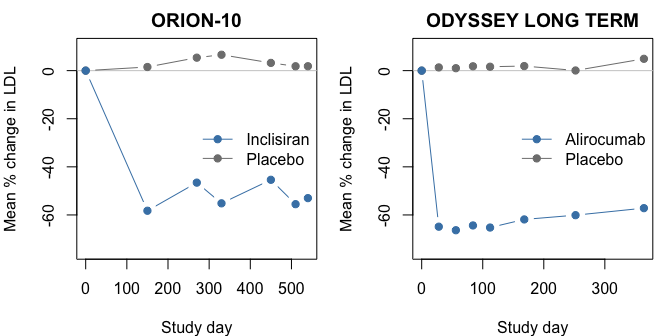
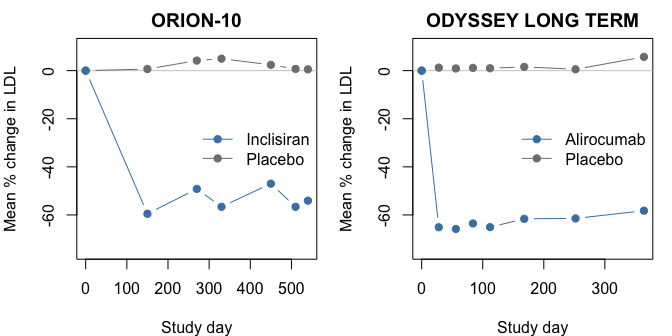
Switches from `mvrnorm` to `chol` to produce datasets

diff --git a/tests/testthat/_snaps/odyssey-lt.md b/tests/testthat/_snaps/odyssey-lt.md
@@ -64,55 +64,57 @@
         140.059883858093, 110.594925884284, 110.594925884284, 110.594925884284, 
         110.594925884284, 110.594925884284, 110.594925884284, 110.594925884284, 
         258.78737161331, 258.78737161331, 258.78737161331, 258.78737161331, 
-        258.78737161331, 258.78737161331, 258.78737161331), ldl = c(126.326414029535, 
-        141.11504230433, 131.116977481005, 138.562873958283, 140.258057203206, 
-        147.502708842565, 150.822327615059, 15.916210676355, 18.5427305504716, 
-        16.5196968537443, 23.1562148792014, 36.4115036485576, 47.1591328083523, 
-        78.0323803059654, 54.9366308952084, 42.3362541295766, 51.502059190909, 
-        59.1143909491735, 78.0439329326917, 51.4086212355644, 85.9198502963523, 
-        26.2543755684939, 23.6374368920224, 25.5269757327617, 23.1348791538951, 
-        28.7645591862499, 22.4080505925043, 18.2986229004088, 24.3043218772255, 
-        29.1688541151435, 30.850764295886, 41.3451504763419, 35.1685839590016, 
-        50.7505409311361, 51.1861976979549, 71.7769355643463, 89.4576406132714, 
-        103.266204380801, 69.0158503438615, 75.0809704960645, 61.930879410443, 
-        57.4022725621201, 103.260046264333, 93.8450668338785, 91.7671019953874, 
-        97.7717420736495, 84.1501267305172, 76.8472532724242, 74.9390522802674, 
-        11.1571867696406, 11.0886034646459, 10.2716808156984, 6.89382940781192, 
-        5.30394072201386, 7.11581010739917, 8.20721081289194, 58.8324015266059, 
-        79.8217902751719, 119.496614001654, 118.196961271825, 145.243871721668, 
-        108.110761397641, 90.2732349560014, 33.9975141560709, 37.4344843126842, 
-        44.86451483009, 37.9030475610336, 31.6686228277681, 27.9402591088604, 
-        41.6684060890597, 269.343552878687, 275.987004643019, 259.194660016412, 
-        250.458298993173, 242.883060167089, 277.159119115348, 288.639839593393
-        ), ldl_pct_change = c(-4.46588968440619, 6.71798231793106, 
-        -0.843035186695484, 4.78790986088948, 6.06988896533696, 11.5486429870477, 
-        14.0590983692684, -83.1139985816318, -80.3274422070299, -82.4737413838241, 
-        -75.4328536329867, -61.3699067726046, -49.9674137466734, 
-        -17.2130281937854, -57.6532047105018, -67.3659513200012, 
-        -60.3006751232124, -54.432862529137, -39.8414064052792, -60.3726998888882, 
-        -33.7704141569172, -66.8726865425904, -70.174694149213, -67.7905069761522, 
-        -70.8088127431957, -63.7053806082286, -71.7259123527513, 
-        -76.9111165840023, -87.0067598117593, -84.4061509122394, 
-        -83.5069913691825, -77.8966278725325, -81.1986583798576, 
-        -72.8684481989477, -72.6355434077956, -68.0589419351629, 
-        -60.1909489349783, -54.0460761618121, -69.2876372347889, 
-        -66.5886315802767, -72.4404810584031, -74.455731405298, 0.922630983229156, 
-        -8.27922906961387, -10.3101566759634, -4.44143884434186, 
-        -17.7547125489777, -24.8922766872084, -26.7572832559667, 
-        -86.3184789260642, -86.4025793316573, -87.4043322527219, 
-        -91.5464288381599, -93.4960328027675, -91.2742245915058, 
-        -89.935892441959, -57.9948234240905, -43.0088130331122, -14.6817698901374, 
-        -15.6096963556101, 3.70126528794448, -22.8110445192304, -35.5466872673799, 
-        -69.2594267917475, -66.151716262415, -59.4334780991381, -65.728041085093, 
-        -71.3652117630576, -74.7364005306225, -62.3234015883716, 
-        4.07909443168295, 6.64624124526816, 0.157383415026335, -3.21850041144304, 
-        -6.14570616296762, 7.09916692901458, 11.5355196020498), hefh = structure(c(1L, 
+        258.78737161331, 258.78737161331, 258.78737161331), ldl = c(120.135314490122, 
+        114.946713457674, 114.312856747352, 113.898285778546, 111.198923918255, 
+        121.61705646088, 100.328982855139, 25.9288409060456, 40.1475571274833, 
+        41.6291578492093, 42.3797231559846, 54.6855406968425, 51.4890852084851, 
+        96.6792374716019, 57.7380683226157, 60.5913934944725, 63.5027414973277, 
+        75.1568315580822, 122.602058734784, 76.6456637426368, 56.6963533834699, 
+        22.7908034388827, 19.0030899391644, 17.9128744350071, 16.4984187843174, 
+        22.1389693971087, 24.2856884918045, 21.9300281260514, 32.3322687963558, 
+        36.7548410101948, 35.177020138, 37.7985561472862, 29.6405105378999, 
+        26.6617702272528, 59.2587579005842, 71.856780050191, 56.783568790512, 
+        58.8220086390314, 60.7357591923837, 56.8234763414139, 111.379310842061, 
+        84.817646599451, 114.539611903431, 127.395183172763, 125.125373350258, 
+        122.744629336718, 121.22299150461, 93.7011784846822, 94.4672992648021, 
+        6.99479417696937, 5.54230783553091, 8.16173944530815, 7.46473454789841, 
+        6.45941656742465, 10.4599283104458, 12.4202316513422, 104.018339621845, 
+        102.084154161773, 74.2118154082294, 90.206947681386, 79.3386444048354, 
+        101.699993850956, 79.4789122186536, 34.54463851327, 30.3583447601132, 
+        36.5919610090731, 45.1628237398026, 39.9039595973085, 45.5682376454117, 
+        41.0266572933165, 241.664616922274, 236.846904013671, 253.960051906761, 
+        238.290569425064, 223.77060482759, 235.942935748703, 229.494064623313
+        ), ldl_pct_change = c(-9.1478969345672, -13.0717665957571, 
+        -13.5511195272358, -13.8646380338107, -15.9060253060127, 
+        -8.02733238770519, -24.1263975585247, -72.4912887106621, 
+        -57.4062117935, -55.8343356480247, -55.0380376413884, -41.9824142474479, 
+        -45.3736329871156, 2.57000075385327, -55.4937731013621, -53.2943448696331, 
+        -51.0501909074332, -42.0668703425168, -5.49467270360482, 
+        -40.9192340438873, -56.2967580780375, -71.2429614828814, 
+        -76.0222323539284, -77.3978472737396, -79.1825827586785, 
+        -72.0654343147995, -69.3567415801555, -72.3290727686049, 
+        -82.7149699372823, -80.3506355890733, -81.1941483465989, 
+        -79.7926590475826, -84.1540004832681, -85.7464534021417, 
+        -68.3199029971457, -68.0234107810607, -74.7310573569911, 
+        -73.8239424871334, -72.9723149125424, -74.7132983179549, 
+        -50.4357074197108, -62.2557670698104, 11.9468700943731, 24.5114400537176, 
+        22.2930101051936, 19.9661570944081, 18.4789633638645, -8.41986033305092, 
+        -7.67108161778001, -91.4226206017762, -93.2037346854866, 
+        -89.99165179122, -90.8463553459275, -92.0791283934564, -87.1734934113833, 
+        -84.7696677854863, -25.7329531079472, -27.1139234520552, 
+        -47.0142246559195, -35.5940150765923, -43.3537696738203, 
+        -27.3882063517939, -43.2536212159219, -68.7647166114888, 
+        -72.5499659976469, -66.9135263516887, -59.1637469995172, 
+        -63.9188151913405, -58.7971714967376, -62.9036712441555, 
+        -6.61653410067545, -8.47818325247465, -1.86536138778896, 
+        -7.92032550138216, -13.5310956510053, -8.82749251719359, 
+        -11.3194499435497), hefh = structure(c(1L, 1L, 1L, 1L, 1L, 
         1L, 1L, 1L, 1L, 1L, 1L, 1L, 1L, 1L, 1L, 1L, 1L, 1L, 1L, 1L, 
-        1L, 1L, 1L, 1L, 1L, 1L, 1L, 1L, 1L, 1L, 1L, 1L, 2L, 2L, 2L, 
-        2L, 2L, 2L, 2L, 1L, 1L, 1L, 1L, 1L, 1L, 1L, 1L, 1L, 1L, 1L, 
+        1L, 1L, 1L, 1L, 1L, 1L, 1L, 1L, 2L, 2L, 2L, 2L, 2L, 2L, 2L, 
         1L, 1L, 1L, 1L, 1L, 1L, 1L, 1L, 1L, 1L, 1L, 1L, 1L, 1L, 1L, 
         1L, 1L, 1L, 1L, 1L, 1L, 1L, 1L, 1L, 1L, 1L, 1L, 1L, 1L, 1L, 
-        1L), levels = c("No", "Yes"), class = "factor"), prior_mi_stroke = structure(c(2L, 
+        1L, 1L, 1L, 1L, 1L, 1L, 1L, 1L, 1L, 1L, 1L, 1L), levels = c("No", 
+        "Yes"), class = "factor"), prior_mi_stroke = structure(c(2L, 
         2L, 2L, 2L, 2L, 2L, 2L, 1L, 1L, 1L, 1L, 1L, 1L, 1L, 2L, 2L, 
         2L, 2L, 2L, 2L, 2L, 1L, 1L, 1L, 1L, 1L, 1L, 1L, 2L, 2L, 2L, 
         2L, 2L, 2L, 2L, 1L, 1L, 1L, 1L, 1L, 1L, 1L, 1L, 1L, 1L, 1L, 

diff --git a/tests/testthat/_snaps/orion11.md b/tests/testthat/_snaps/orion11.md
@@ -65,48 +65,49 @@
         73.2223942601521, 73.2223942601521, 73.2223942601521, 73.2223942601521, 
         73.2223942601521, 64.9158837674409, 64.9158837674409, 64.9158837674409, 
         64.9158837674409, 64.9158837674409, 64.9158837674409, 64.9158837674409
-        ), ldl = c(81.7477309551172, 71.2282970199225, 109.156262552363, 
-        80.297992353798, 121.570853993816, 85.6677417816791, 100.447506405242, 
-        162.582066060979, 178.526722455355, 144.648616149528, 133.746816768478, 
-        170.573094457542, 165.087957334348, 163.847580377348, 160.215670976632, 
-        159.248826270763, 227.635212293704, 172.534037942052, 117.501049868278, 
-        57.6100669547393, 57.4684956174407, 18.9015154225402, 19.7202572078759, 
-        31.2706671715913, 27.6937698375692, 32.7309954511727, 27.7475122968109, 
-        28.05910550945, 114.017357187868, 108.928811598453, 112.752495380814, 
-        117.073167368379, 127.252607270695, 132.454408789398, 139.077124776732, 
-        36.1821179642037, 28.9208051612766, 26.6724207833005, 30.0990241742064, 
-        40.033884614258, 31.0013731597291, 29.2441953439857, 97.444667724535, 
-        102.175172585094, 99.7255061837601, 99.8156866920793, 97.4287789456315, 
-        91.4550738925793, 93.1426122646652, 50.3751319022758, 58.4685683191558, 
-        67.1670727673784, 56.3644727688296, 55.2459883903927, 38.7765161512044, 
-        45.3849469536813, 79.2946208071708, 93.3737386926447, 65.6922526560694, 
-        69.1999752791632, 76.934644985441, 71.4093371089435, 69.6985091885093, 
-        63.6386860627697, 57.4617296770656, 57.157476220874, 50.9622601939386, 
-        53.7435536313032, 59.026454721025, 59.8877915326918, 71.4965216273285, 
-        70.7707388542436, 73.7494242426444, 90.0088752492888, 84.698620863238, 
-        76.6798760092356, 74.7088730453079), ldl_pct_change = c(-36.2965842725254, 
-        -44.4940457232822, -14.9379843160619, -37.4263196148643, 
-        -5.26368668796156, -33.2418440806811, -21.7244419562599, 
-        8.71736676605246, 19.3794348476319, -3.27459211748508, -10.5645408211446, 
-        14.0609054851457, 10.3930368275982, 9.56360637546145, 13.4758515135091, 
-        12.7910650278237, 61.2270472172099, 22.2005734594713, -16.777606046547, 
-        -59.1965544719231, -59.2968251130653, -77.6678981550515, 
-        -76.7005564088427, -63.0537706409143, -67.279867531381, -61.3283957628884, 
-        -67.216370925614, -66.848224181647, -26.0918221476913, -29.3903123224142, 
-        -26.9117291662366, -24.1109889844391, -17.5124861486156, 
-        -14.1405813678089, -9.84761332215669, -59.500185142551, -67.6280074118698, 
-        -70.144696764508, -66.3091887641501, -55.188778155386, -65.2991603604334, 
-        -67.2660263211168, -47.6090309979621, -45.0656826619182, 
-        -46.3827418658187, -46.334256460447, -47.6175735744052, -50.8293264960376, 
-        -49.922024202272, -58.3271805978721, -51.6318866818674, -44.4360503385979, 
-        -53.3724993723446, -54.2977653864787, -67.9221335291465, 
-        -62.4553102581461, -5.52554864562123, 11.2488166800967, -21.7318972618866, 
-        -17.5526708913362, -8.33730836775565, -14.9203580738074, 
-        -16.958699735568, -13.0884933417124, -21.5243775382301, -21.9398972153259, 
-        -30.4007186478024, -26.6022995091399, -19.3874287812691, 
-        -18.2110990253661, 10.1371767246713, 9.01914099756778, 13.6076719017635, 
-        38.654625071027, 30.4744169649884, 18.1219010803872, 15.085659640636
-        ), statin_use = structure(c(2L, 2L, 2L, 2L, 2L, 2L, 2L, 2L, 
+        ), ldl = c(38.7758802866235, 34.7360565046635, 43.5023631850402, 
+        37.2718757449024, 51.7586895651637, 56.1647450452796, 70.0258875223053, 
+        139.151393793846, 142.197521483466, 177.818045137292, 162.018364197002, 
+        201.706968789965, 197.24587737461, 197.839940151071, 34.2650228796743, 
+        55.6504054955262, 36.9419645925982, 28.2837971374774, 41.9622466271199, 
+        38.8204496122836, 46.3098678653235, 67.98938479947, 50.1487605017119, 
+        39.6038488389593, 35.1879581406031, 47.710106651065, 38.9637969315596, 
+        38.9862506303622, 204.173810234868, 182.553914904626, 183.220320491315, 
+        179.087302433669, 162.637500019735, 163.530476702134, 168.153528006151, 
+        62.2169050465795, 54.171359234667, 66.0453249588088, 39.7796312898853, 
+        41.593348887058, 29.550165701735, 29.2389623541404, 81.270593643972, 
+        79.3049301760541, 94.2468400609017, 85.0976618920534, 102.110713599958, 
+        64.0303998264041, 63.2643465017088, 65.6283239811531, 67.335869224403, 
+        58.7982530797269, 52.0804814005328, 78.2413819256988, 54.8327603887424, 
+        65.6886483517512, 96.5572469320581, 102.535630709083, 113.944864955189, 
+        96.8709215396697, 119.890181875218, 97.2536315823177, 96.7946851685106, 
+        97.8791010584146, 97.1794966305095, 102.940589562223, 104.430549909263, 
+        91.9354768637602, 101.044346880408, 97.6085908810519, 52.6481957044687, 
+        52.9818480976269, 49.8937188844248, 44.4970038345433, 42.259920122792, 
+        39.725203075719, 41.2104897979913), ldl_pct_change = c(-69.7831854996222, 
+        -72.9312921301198, -66.0999871834274, -70.9552085693497, 
+        -59.6660937208248, -56.2325943357196, -45.4310453342369, 
+        -6.9505420762779, -4.91362011266815, 18.9055478207707, 8.34042370106671, 
+        34.879885810914, 31.8967885768186, 32.2940337485357, -75.7311340101805, 
+        -60.5845226488616, -73.8351382035632, -79.9674529673273, 
+        -70.2794262358593, -72.5046648118857, -67.200139303089, -19.6706808012589, 
+        -40.7493419502946, -53.2081335304529, -58.4254993663293, 
+        -43.6306064912466, -53.9643535510475, -53.9378245517982, 
+        32.349272530128, 18.3348530713179, 18.7668296039925, 16.0877302001364, 
+        5.42466141455524, 6.00350555801281, 9.00025365343353, -30.3586059311715, 
+        -39.3642455715029, -26.0733317027458, -55.4733721245444, 
+        -53.4432193578693, -66.923543803842, -67.2718837758986, -56.3049959345646, 
+        -57.3618317391388, -49.3283379021929, -54.2473788413367, 
+        -45.1003389316869, -65.5741584344425, -65.9860257733664, 
+        -45.7089800134623, -44.2964134978855, -51.3591550190786, 
+        -56.9164305119718, -35.2748299480829, -54.6396081814134, 
+        -45.6590766880207, 15.0417624214241, 22.1646229833506, 35.7579933129176, 
+        15.4154855839319, 42.8414568370526, 15.8714600364096, 15.3246548407466, 
+        33.6737237936519, 32.7182723433491, 40.5862108202656, 42.6210532507733, 
+        25.5565019318029, 37.9965076277169, 33.3042873936325, -18.8978218442204, 
+        -18.3838453352453, -23.1409695304041, -31.4543664013688, 
+        -34.9004932688172, -38.8051109062409, -36.5170934965215), 
+        statin_use = structure(c(2L, 2L, 2L, 2L, 2L, 2L, 2L, 2L, 
         2L, 2L, 2L, 2L, 2L, 2L, 2L, 2L, 2L, 2L, 2L, 2L, 2L, 2L, 2L, 
         2L, 2L, 2L, 2L, 2L, 2L, 2L, 2L, 2L, 2L, 2L, 2L, 2L, 2L, 2L, 
         2L, 2L, 2L, 2L, 2L, 2L, 2L, 2L, 2L, 2L, 2L, 2L, 2L, 2L, 2L, 

diff --git a/tests/testthat/_snaps/orion10.md b/tests/testthat/_snaps/orion10.md
@@ -56,42 +56,42 @@
         85.4030003254774, 96.177759943998, 96.177759943998, 96.177759943998, 
         96.177759943998, 96.177759943998, 96.177759943998, 145.099269491903, 
         145.099269491903, 145.099269491903, 145.099269491903, 145.099269491903, 
-        145.099269491903), ldl = c(22.4687008567395, 34.67473503372, 
-        26.0284870449598, 22.8802634005153, 15.3582044163105, 24.3444479360961, 
-        116.298308272137, 119.2400726066, 109.802674389967, 101.694319223274, 
-        105.564475414187, 103.039050773218, 60.1173781820581, 61.6833247380029, 
-        64.4344854622074, 89.4487733668866, 67.5302342438205, 76.3284241830633, 
-        23.5266000760989, 46.1875358054847, 43.8672242140099, 56.1851971527278, 
-        48.469805944601, 45.0199777820637, 136.114324032871, 111.955073744675, 
-        125.93091236066, 127.283885840102, 120.811110827161, 119.94287159193, 
-        40.3268875438867, 19.6784342597912, 25.4759546144756, 40.874574924219, 
-        24.4622285001309, 26.3874188798836, 18.9041920537962, 17.2421567943033, 
-        10.0461647218952, 22.6438657971635, 25.5299301927712, 24.224975609019, 
-        33.3900196594625, 47.9106997477694, 44.9717047694063, 64.1856191082578, 
-        52.8207424577183, 42.7525396360143, 73.9257034315801, 75.7026935050819, 
-        87.2848636252916, 96.462416639505, 95.0389067889146, 88.0923250930687, 
-        117.582460098014, 101.313630636547, 108.177278622472, 90.3209515922187, 
-        82.2135552435814, 82.2765984419743, 154.801970659005, 146.284220645749, 
-        163.670440033702, 182.260698259686, 171.488971475539, 159.206422889369
-        ), ldl_pct_change = c(-72.896643370294, -58.1728505065045, 
-        -68.6025742472056, -72.4001871456771, -81.4738335722543, 
-        -70.633982864772, 2.08922478814118, 4.67157052366127, -3.61278616447397, 
-        -10.7304794961567, -7.33317087482407, -9.55004442774031, 
-        -62.2001242577852, -61.215507379544, -59.4856659149536, -43.7574854258874, 
-        -57.5391585519792, -52.0071394168029, -75.1582879119388, 
-        -51.230629890185, -53.6806444406753, -40.674109868643, -48.8207832689258, 
-        -52.4634531697968, 20.7739525433186, -0.662499266736305, 
-        11.7382328513068, 12.9387233651416, 7.19544375227938, 6.4250569106505, 
-        -58.1523080043935, -79.5794541554107, -73.5632981632811, 
-        -57.5839662801013, -74.6152538381353, -72.6174608282701, 
-        -68.632787300214, -71.3905572885161, -83.3306715911462, -62.4276481754002, 
-        -57.6388798691594, -59.8041555855526, -60.6148057219403, 
-        -43.4869390072692, -46.9536302337378, -24.2898595383165, 
-        -37.6952986303788, -49.5712462401115, -13.4389855744604, 
-        -11.3582740459081, 2.20350958706639, 12.9496812429064, 11.282866441125, 
-        3.14898160174941, 22.2553531777817, 5.33997744960959, 12.4763965031639, 
-        -6.08956618992742, -14.5191619232426, -14.4536132990808, 
-        6.68694005219916, 0.816648600641368, 12.7989414466596, 25.6110378073661, 
-        18.1873431038251, 9.72241517608308)), row.names = c(NA, -66L
-    ), class = c("tbl_df", "tbl", "data.frame"))
+        145.099269491903), ldl = c(43.8277377950852, 40.6775115731082, 
+        29.5268138772533, 26.1710614271462, 22.2930378022164, 35.3517479516588, 
+        119.888698005757, 113.874778089525, 119.055259560726, 107.835669338889, 
+        112.831833292635, 108.451241902819, 51.4244478972089, 75.123261330062, 
+        69.0902063519591, 99.379558813671, 64.9737083577765, 74.423683529914, 
+        29.2138787481918, 49.1725072920581, 31.2646513526777, 37.8763400814587, 
+        32.675833125033, 30.6251604942393, 101.6496377503, 105.501341393298, 
+        119.236238745124, 135.053199293952, 115.266540568088, 115.859292535847, 
+        49.190004426796, 55.8447965909067, 65.5073982922176, 155.747594025354, 
+        70.6609335052945, 80.1516524071244, 28.5589420958274, 45.5364149872926, 
+        59.2531520948019, 58.7885154620054, 62.6525424538146, 52.9506272542296, 
+        20.7624200719837, 32.5211528215975, 25.7593527764656, 41.5591769257364, 
+        34.7419326669439, 29.27481841393, 84.5625863866526, 101.961619379817, 
+        98.2608651295634, 108.668722419797, 98.6030738852418, 92.0404463783834, 
+        96.707251979817, 81.9826731219608, 87.5697048895667, 95.888213058716, 
+        83.9651533968028, 85.8684855789436, 126.912427012783, 145.675894074266, 
+        151.263525038577, 180.488585273684, 165.778920604096, 157.654952065809
+        ), ldl_pct_change = c(-47.1318428552074, -50.9318714061633, 
+        -64.3826418021804, -68.4305908133926, -73.1085407311499, 
+        -57.3561890237241, 5.24094823139918, -0.0382035577173312, 
+        4.50933754826992, -5.33946666225878, -0.95372354586869, -4.79910346363489, 
+        -67.6659595044245, -52.7649070951375, -56.5582982145509, 
+        -37.5133266275072, -59.1466198842344, -53.2047791374199, 
+        -69.153096389164, -48.0788016608329, -66.9876877693916, -60.0064126474026, 
+        -65.4976224314602, -67.662925489117, -9.80649088235934, -6.38888236616829, 
+        5.7980630765182, 19.8324188012135, 2.27575825921738, 2.80170582963475, 
+        -48.9549459458064, -42.0491887763396, -32.0221917899584, 
+        61.6211351976212, -26.6743068570919, -16.8256747009794, -52.6129226442768, 
+        -24.4426627476366, -1.68285322105647, -2.45381217278349, 
+        3.95766292146444, -12.1404616000517, -75.5096895252643, -61.639677511777, 
+        -69.6155580641995, -50.978877103101, -59.0201568720825, -65.4688909306825, 
+        -0.984056690774215, 19.3888024908177, 15.0555188401856, 27.2422772099953, 
+        15.4562175912532, 7.77191202605314, 0.550534797366176, -14.7592196265568, 
+        -8.95015132338662, -0.301053887562597, -12.6979527848292, 
+        -10.7189794928238, -12.5340689465944, 0.397400058857733, 
+        4.24830226110713, 24.3897270508012, 14.2520711404044, 8.65316732322152
+        )), row.names = c(NA, -66L), class = c("tbl_df", "tbl", "data.frame"
+    ))
 

diff --git a/README.md b/README.md
@@ -61,12 +61,12 @@ head(ldl)
 #> # A tibble: 6 × 14
 #>   subject_id treatment   age sex   race  visit     day ldl_baseline   ldl
 #>   <fct>      <fct>     <dbl> <fct> <fct> <ord>   <dbl>        <dbl> <dbl>
-#> 1 001-0001   Placebo      62 Male  White Week 4     28         85.0  81.8
-#> 2 001-0001   Placebo      62 Male  White Week 8     56         85.0  85.3
-#> 3 001-0001   Placebo      62 Male  White Week 12    84         85.0  81.3
-#> 4 001-0001   Placebo      62 Male  White Week 16   112         85.0  85.9
-#> 5 001-0001   Placebo      62 Male  White Week 24   168         85.0  61.6
-#> 6 001-0001   Placebo      62 Male  White Week 36   252         85.0  56.0
+#> 1 001-0001   Placebo      62 Male  White Week 4     28         85.0  94.1
+#> 2 001-0001   Placebo      62 Male  White Week 8     56         85.0 104. 
+#> 3 001-0001   Placebo      62 Male  White Week 12    84         85.0 116. 
+#> 4 001-0001   Placebo      62 Male  White Week 16   112         85.0 133. 
+#> 5 001-0001   Placebo      62 Male  White Week 24   168         85.0 114. 
+#> 6 001-0001   Placebo      62 Male  White Week 36   252         85.0  94.0
 #> # ℹ 5 more variables: ldl_pct_change <dbl>, hefh <fct>, prior_mi_stroke <fct>,
 #> #   statin_intensity <fct>, region <fct>
 ```
@@ -92,8 +92,8 @@ means <- emmeans::emmeans(fit, ~ treatment | visit, weights = "proportional")
 #> mmrm() registered as emmeans extension
 diffs <- summary(emmeans::contrast(means, "revpairwise"))
 diffs[diffs$visit == "Week 24", ]
-#>  contrast             visit   estimate   SE   df t.ratio p.value
-#>  Alirocumab - Placebo Week 24    -64.2 1.19 2331 -53.949 <0.0001
+#>  contrast             visit   estimate  SE   df t.ratio p.value
+#>  Alirocumab - Placebo Week 24    -62.7 1.3 2332 -48.439 <0.0001
 #> 
 #> Results are averaged over the levels of: hefh, prior_mi_stroke, statin_intensity, region
 ```
